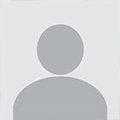
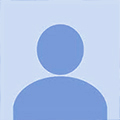
color theme changes

diff --git a/src/Screens/AuthScreens/RegistrationScreen.jsx b/src/Screens/AuthScreens/RegistrationScreen.jsx
@@ -110,7 +110,7 @@ export default RegistrationScreen = ({
             onPress={profilePhoto ? deleteProfilePhoto : pickProfilePhoto}
             style={{
               ...styles.addButton,
-              borderColor: profilePhoto ? "#E8E8E8" : "#FF6C00",
+              borderColor: profilePhoto ? "#E8E8E8" : "#3470FF",
               transform: [{ rotate: profilePhoto ? "45deg" : "0deg" }],
             }}
             activeOpacity={0.6}
@@ -118,7 +118,7 @@ export default RegistrationScreen = ({
             <AddIcon
               width={13}
               height={13}
-              fill={profilePhoto ? "#BDBDBD" : "#FF6C00"}
+              fill={profilePhoto ? "#BDBDBD" : "#3470FF"}
             />
           </TouchableOpacity>
         </View>
@@ -129,12 +129,12 @@ export default RegistrationScreen = ({
               ...styles.input,
               marginBottom: 16,
               backgroundColor: isInputLoginFocused ? "#ffffff" : "#F6F6F6",
-              borderColor: isInputLoginFocused ? "#FF6C00" : "#E8E8E8",
+              borderColor: isInputLoginFocused ? "#3470FF" : "#E8E8E8",
             }}
             placeholder={"Логін"}
             autoComplete={"off"}
             autoCorrect={false}
-            selectionColor={"#FF6C00"}
+            selectionColor={"#3470FF"}
             value={login}
             onFocus={() => setInputLoginFocused(true)}
             onBlur={() => setInputLoginFocused(false)}
@@ -145,12 +145,12 @@ export default RegistrationScreen = ({
               ...styles.input,
               marginBottom: 16,
               backgroundColor: isInputEmailFocused ? "#ffffff" : "#F6F6F6",
-              borderColor: isInputEmailFocused ? "#FF6C00" : "#E8E8E8",
+              borderColor: isInputEmailFocused ? "#3470FF" : "#E8E8E8",
             }}
             placeholder={"Адреса електронної пошти"}
             autoComplete={"off"}
             autoCorrect={false}
-            selectionColor={"#FF6C00"}
+            selectionColor={"#3470FF"}
             value={email}
             onFocus={() => setInputEmailFocused(true)}
             onBlur={() => setInputEmailFocused(false)}
@@ -162,13 +162,13 @@ export default RegistrationScreen = ({
                 ...styles.input,
                 marginBottom: 34,
                 backgroundColor: isInputPasswordFocused ? "#ffffff" : "#F6F6F6",
-                borderColor: isInputPasswordFocused ? "#FF6C00" : "#E8E8E8",
+                borderColor: isInputPasswordFocused ? "#3470FF" : "#E8E8E8",
               }}
               placeholder={"Пароль"}
               secureTextEntry={!showPassword}
               autoComplete={"off"}
               autoCorrect={false}
-              selectionColor={"#FF6C00"}
+              selectionColor={"#3470FF"}
               value={password}
               onFocus={() => setInputPasswordFocused(true)}
               onBlur={() => setInputPasswordFocused(false)}
@@ -198,7 +198,7 @@ export default RegistrationScreen = ({
                 activeOpacity={0.6}
                 style={{
                   ...styles.btn,
-                  backgroundColor: disabledRegisterBtn ? "#f6f6f6" : "#FF6C00",
+                  backgroundColor: disabledRegisterBtn ? "#f6f6f6" : "#3470FF",
                 }}
                 onPress={handleRegister}
               >
@@ -301,7 +301,7 @@ const styles = StyleSheet.create({
   },
 
   btn: {
-    backgroundColor: "#FF6C00",
+    backgroundColor: "#3470FF",
     borderRadius: 100,
     height: 50,
     marginBottom: 16,

diff --git a/src/Screens/AuthScreens/LoginScreen.jsx b/src/Screens/AuthScreens/LoginScreen.jsx
@@ -53,12 +53,12 @@ export default LoginScreen = ({ isKeyboardShown, setisRegistrationScreen }) => {
               ...styles.input,
               marginBottom: 16,
               backgroundColor: isInputEmailFocused ? "#ffffff" : "#F6F6F6",
-              borderColor: isInputEmailFocused ? "#FF6C00" : "#E8E8E8",
+              borderColor: isInputEmailFocused ? "#3470FF" : "#E8E8E8",
             }}
             placeholder={"Адреса електронної пошти"}
             autoComplete={"off"}
             autoCorrect={false}
-            selectionColor={"#FF6C00"}
+            selectionColor={"#3470FF"}
             value={email}
             onFocus={() => setInputEmailFocused(true)}
             onBlur={() => setInputEmailFocused(false)}
@@ -70,13 +70,13 @@ export default LoginScreen = ({ isKeyboardShown, setisRegistrationScreen }) => {
                 ...styles.input,
                 marginBottom: 34,
                 backgroundColor: isInputPasswordFocused ? "#ffffff" : "#F6F6F6",
-                borderColor: isInputPasswordFocused ? "#FF6C00" : "#E8E8E8",
+                borderColor: isInputPasswordFocused ? "#3470FF" : "#E8E8E8",
               }}
               placeholder={"Пароль"}
               secureTextEntry={!showPassword}
               autoComplete={"off"}
               autoCorrect={false}
-              selectionColor={"#FF6C00"}
+              selectionColor={"#3470FF"}
               value={password}
               onFocus={() => setInputPasswordFocused(true)}
               onBlur={() => setInputPasswordFocused(false)}
@@ -106,7 +106,7 @@ export default LoginScreen = ({ isKeyboardShown, setisRegistrationScreen }) => {
                 activeOpacity={0.6}
                 style={{
                   ...styles.btn,
-                  backgroundColor: disabledLoginBtn ? "#f6f6f6" : "#FF6C00",
+                  backgroundColor: disabledLoginBtn ? "#f6f6f6" : "#3470FF",
                 }}
                 onPress={handleLogin}
               >
@@ -185,7 +185,7 @@ const styles = StyleSheet.create({
   },
 
   btn: {
-    backgroundColor: "#FF6C00",
+    backgroundColor: "#3470FF",
     borderRadius: 100,
     height: 50,
     marginBottom: 16,

diff --git a/src/Screens/MainScreens/ProfileScreen.jsx b/src/Screens/MainScreens/ProfileScreen.jsx
@@ -198,7 +198,7 @@ export default ProfileScreen = ({ navigation }) => {
           <TouchableOpacity
             style={{
               ...styles.addButton,
-              borderColor: photoURL ? "#E8E8E8" : "#FF6C00",
+              borderColor: photoURL ? "#E8E8E8" : "#3470FF",
               transform: [{ rotate: photoURL ? "45deg" : "0deg" }],
             }}
             activeOpacity={0.6}
@@ -207,7 +207,7 @@ export default ProfileScreen = ({ navigation }) => {
             <AddIcon
               width={13}
               height={13}
-              fill={photoURL ? "#BDBDBD" : "#FF6C00"}
+              fill={photoURL ? "#BDBDBD" : "#3470FF"}
             />
           </TouchableOpacity>
         </View>
@@ -241,9 +241,9 @@ export default ProfileScreen = ({ navigation }) => {
                     }}
                   >
                     <CommentIcon
-                      stroke={item.data.commentsCount ? "#FF6C00" : "#BDBDBD"}
+                      stroke={item.data.commentsCount ? "#3470FF" : "#BDBDBD"}
                       strokeWidth={"1px"}
-                      fill={item.data.commentsCount ? "#FF6C00" : "transparent"}
+                      fill={item.data.commentsCount ? "#3470FF" : "transparent"}
                     />
                     <Text
                       style={{
@@ -260,11 +260,11 @@ export default ProfileScreen = ({ navigation }) => {
                     onPress={() => handleLike(item)}
                   >
                     <LikeIcon
-                      stroke={item.data.likesCount ? "#FF6C00" : "#BDBDBD"}
+                      stroke={item.data.likesCount ? "#3470FF" : "#BDBDBD"}
                       strokeWidth={"1px"}
                       fill={
                         item.data.likedBy.includes(userId)
-                          ? "#FF6C00"
+                          ? "#3470FF"
                           : "transparent"
                       }
                     />

diff --git a/src/Screens/PostNestedScreens/DefaultScreen.jsx b/src/Screens/PostNestedScreens/DefaultScreen.jsx
@@ -113,9 +113,9 @@ export default DefaultScreen = ({ navigation }) => {
                   }}
                 >
                   <CommentIcon
-                    stroke={item.data.commentsCount ? "#FF6C00" : "#BDBDBD"}
+                    stroke={item.data.commentsCount ? "#3470FF" : "#BDBDBD"}
                     strokeWidth={"1px"}
-                    fill={item.data.commentsCount ? "#FF6C00" : "transparent"}
+                    fill={item.data.commentsCount ? "#3470FF" : "transparent"}
                   />
                   <Text
                     style={{
@@ -132,11 +132,11 @@ export default DefaultScreen = ({ navigation }) => {
                   onPress={() => handleLike(item)}
                 >
                   <LikeIcon
-                    stroke={item.data.likesCount ? "#FF6C00" : "#BDBDBD"}
+                    stroke={item.data.likesCount ? "#3470FF" : "#BDBDBD"}
                     strokeWidth={"1px"}
                     fill={
                       item.data.likedBy.includes(userId)
-                        ? "#FF6C00"
+                        ? "#3470FF"
                         : "transparent"
                     }
                   />

diff --git a/src/Screens/AuthScreens/AuthScreen.jsx b/src/Screens/AuthScreens/AuthScreen.jsx
@@ -59,17 +59,19 @@ export default AuthScreen = () => {
           behavior={Platform.OS == "ios" ? "padding" : null}
           style={styles.container}
         >
-          {isRegistrationScreen ? (
-            <RegistrationScreen
-              isKeyboardShown={isKeyboardShown}
-              setisRegistrationScreen={setisRegistrationScreen}
-            />
-          ) : (
-            <LoginScreen
-              isKeyboardShown={isKeyboardShown}
-              setisRegistrationScreen={setisRegistrationScreen}
-            />
-          )}
+
+            {isRegistrationScreen ? (
+              <RegistrationScreen
+                isKeyboardShown={isKeyboardShown}
+                setisRegistrationScreen={setisRegistrationScreen}
+              />
+            ) : (
+              <LoginScreen
+                isKeyboardShown={isKeyboardShown}
+                setisRegistrationScreen={setisRegistrationScreen}
+              />
+            )}
+
         </KeyboardAvoidingView>
       </TouchableWithoutFeedback>
     </>

diff --git a/src/Screens/MainScreens/CreatePostScreen.jsx b/src/Screens/MainScreens/CreatePostScreen.jsx
@@ -417,7 +417,7 @@ export default CreatePostScreen = () => {
                   activeOpacity={0.6}
                   style={{
                     ...styles.postBtn,
-                    backgroundColor: disabledPostBtn ? "#f6f6f6" : "#FF6C00",
+                    backgroundColor: disabledPostBtn ? "#f6f6f6" : "#3470FF",
                   }}
                   onPress={publishPost}
                 >
@@ -444,7 +444,7 @@ export default CreatePostScreen = () => {
               activeOpacity={0.6}
               style={{
                 ...styles.deleteBtn,
-                backgroundColor: disabledDeleteBtn ? "#f6f6f6" : "#FF6C00",
+                backgroundColor: disabledDeleteBtn ? "#f6f6f6" : "#3470FF",
               }}
               onPress={clearPost}
             >

diff --git a/src/Components/CustomTabBar.jsx b/src/Components/CustomTabBar.jsx
@@ -49,7 +49,7 @@ const styles = StyleSheet.create({
   activeIcon: {
     width: 70,
     height: 40,
-    backgroundColor: "#FF6C00",
+    backgroundColor: "#3470FF",
     borderRadius: 100,
     justifyContent: "center",
     alignItems: "center",
@@ -58,8 +58,8 @@ const styles = StyleSheet.create({
   inactiveIcon: {
     width: 70,
     height: 40,
-    backgroundColor: "transparent",
     borderRadius: 100,
+    backgroundColor: "#eef3ff",
     justifyContent: "center",
     alignItems: "center",
   },
